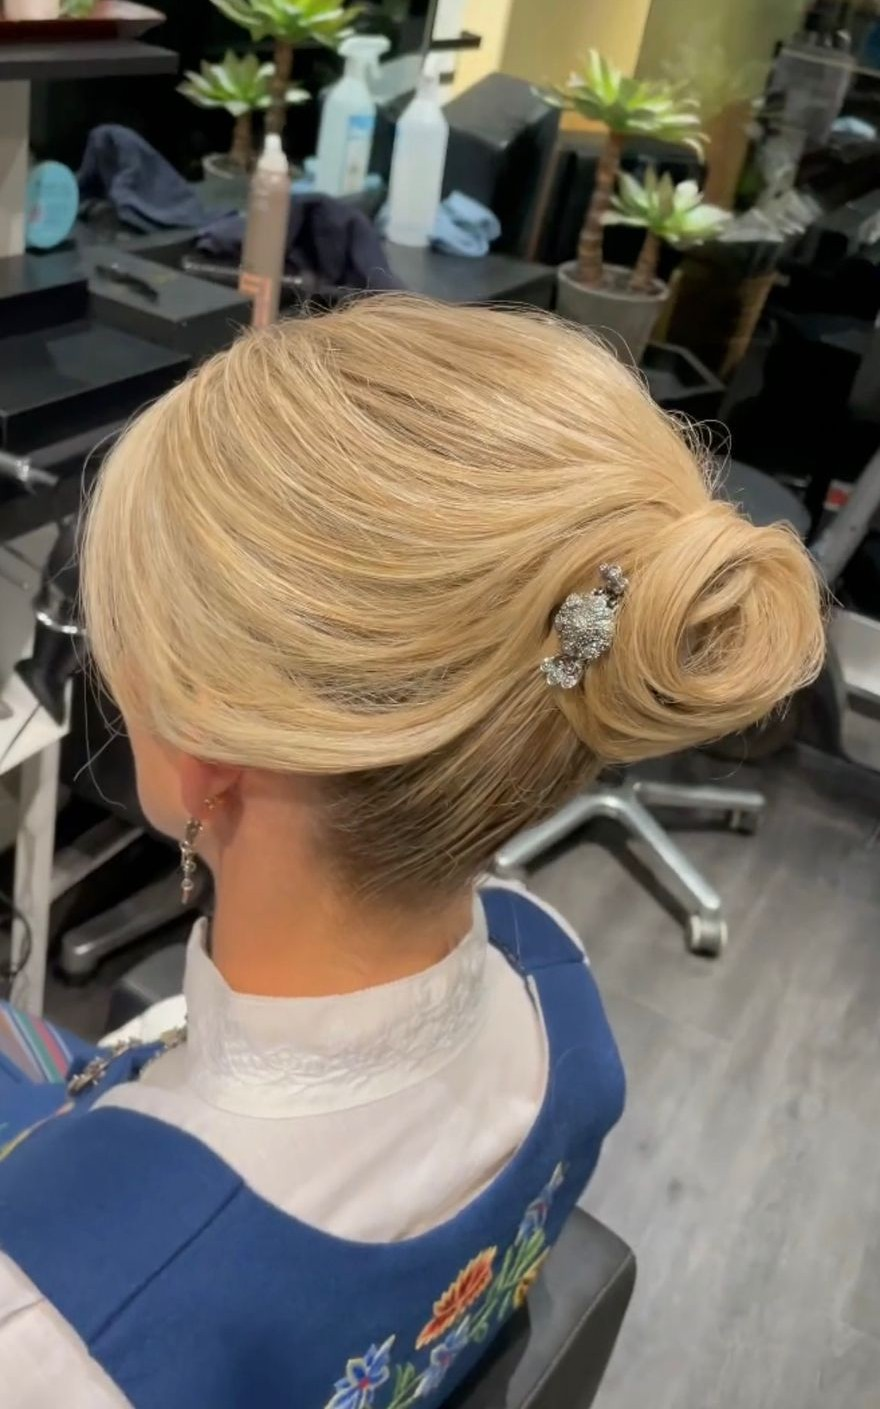
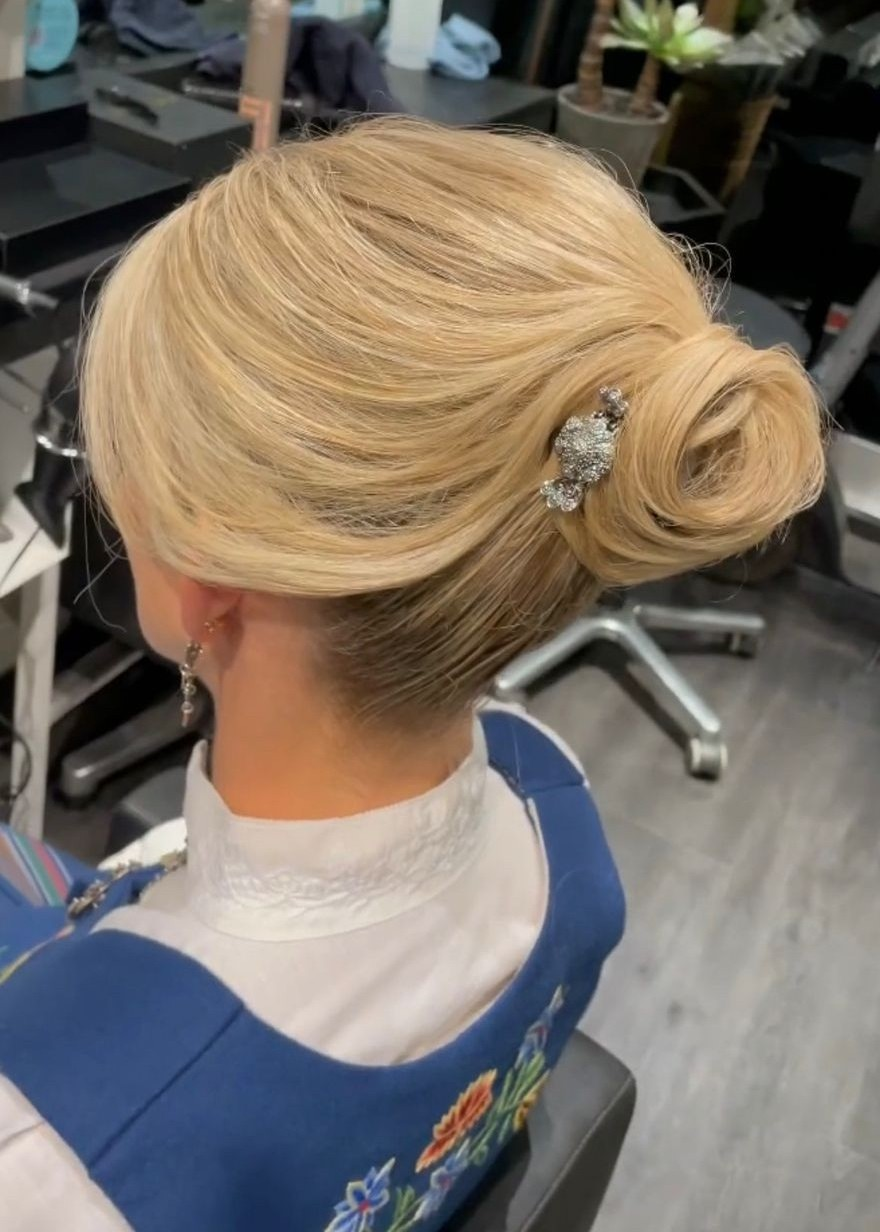
Fixed

diff --git a/script.js b/script.js
@@ -64,23 +64,20 @@ window.addEventListener('scroll', () => {
 // ── MOBILE MENU ──
 const hamburger = document.getElementById('hamburger');
 const mobileMenu = document.getElementById('mobileMenu');
-const closeMenu = document.getElementById('closeMenu');
+const closeMenu  = document.getElementById('closeMenu');
 
 function openMobileMenu() {
   if (!mobileMenu) return;
   mobileMenu.classList.add('open');
-  // Prevent the mobile bottom sub-nav from receiving touch/click events
-  // while the menu overlay is open (fixes X button triggering Email link behind it)
   const subNav = document.getElementById('mobileBottomNav');
-  if (subNav) subNav.style.pointerEvents = 'none';
+  if (subNav) subNav.classList.add('menu-open-hidden');
 }
 
 function closeMobileMenu() {
   if (!mobileMenu) return;
   mobileMenu.classList.remove('open');
-  // Restore sub-nav pointer events
   const subNav = document.getElementById('mobileBottomNav');
-  if (subNav) subNav.style.pointerEvents = '';
+  if (subNav) subNav.classList.remove('menu-open-hidden');
 }
 
 if (hamburger && mobileMenu) {

diff --git a/style.css b/style.css
@@ -333,7 +333,12 @@ nav.scrolled .hamburger span {
 
 .mobile-menu.open {
   display: flex;
-  pointer-events: all; /* Block touches/clicks from reaching elements behind the overlay */
+}
+
+/* Hide sub-nav completely while mobile menu is open — prevents tap bleed-through */
+#mobileBottomNav.menu-open-hidden {
+  display: none !important;
+  pointer-events: none !important;
 }
 
 .mobile-menu a {
@@ -3246,7 +3251,7 @@ nav.scrolled #scroll-progress {
     position: fixed;
     left: 0;
     right: 0;
-    z-index: 9399;
+    z-index: 9000; /* must be BELOW mobile menu (9001) and close button (9002) */
     background: transparent;
     backdrop-filter: none;
     -webkit-backdrop-filter: none;
